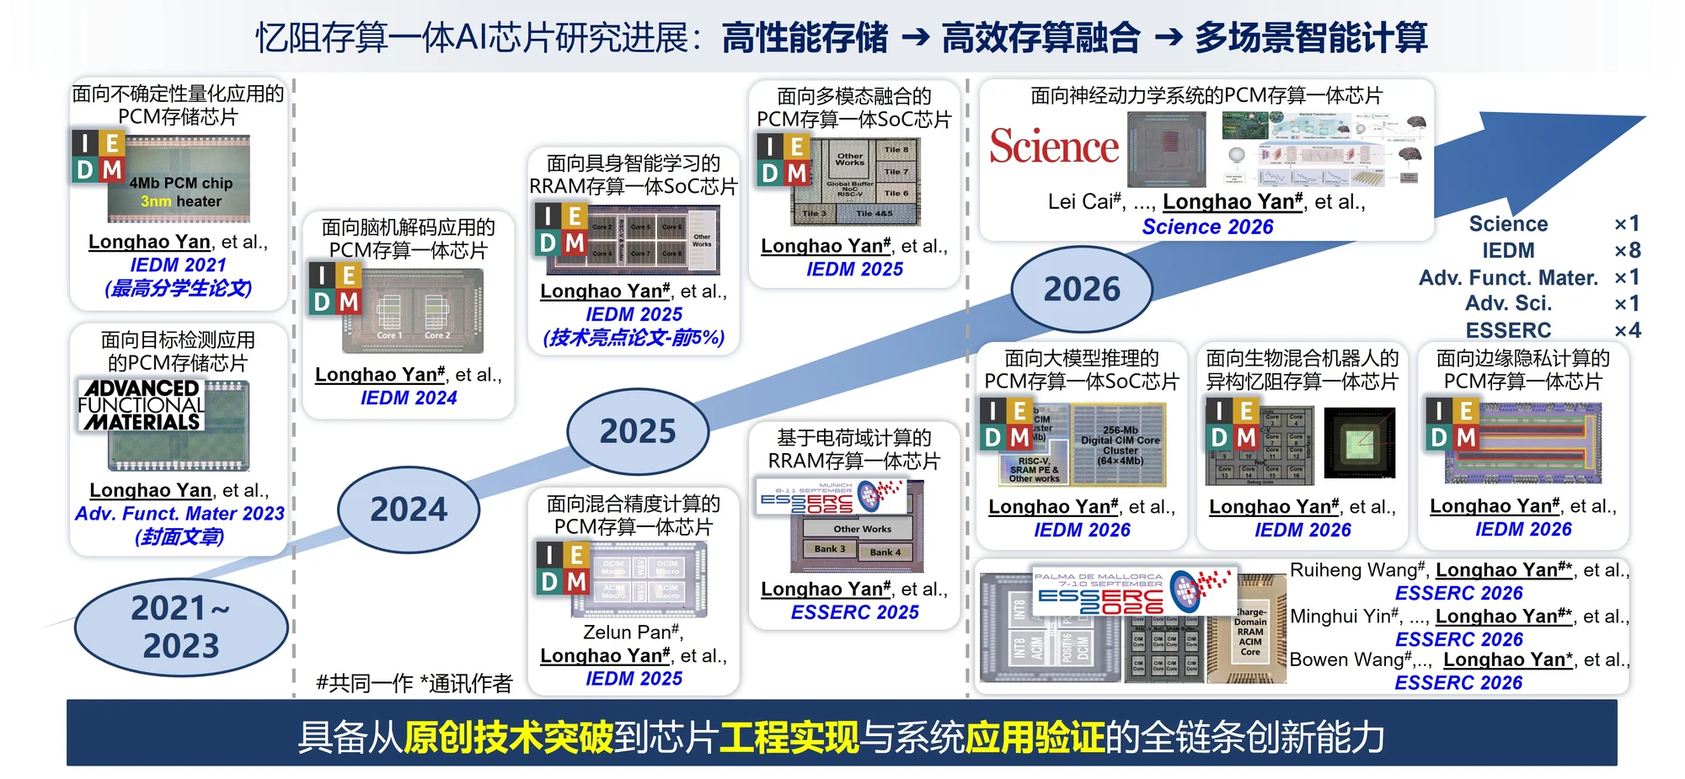
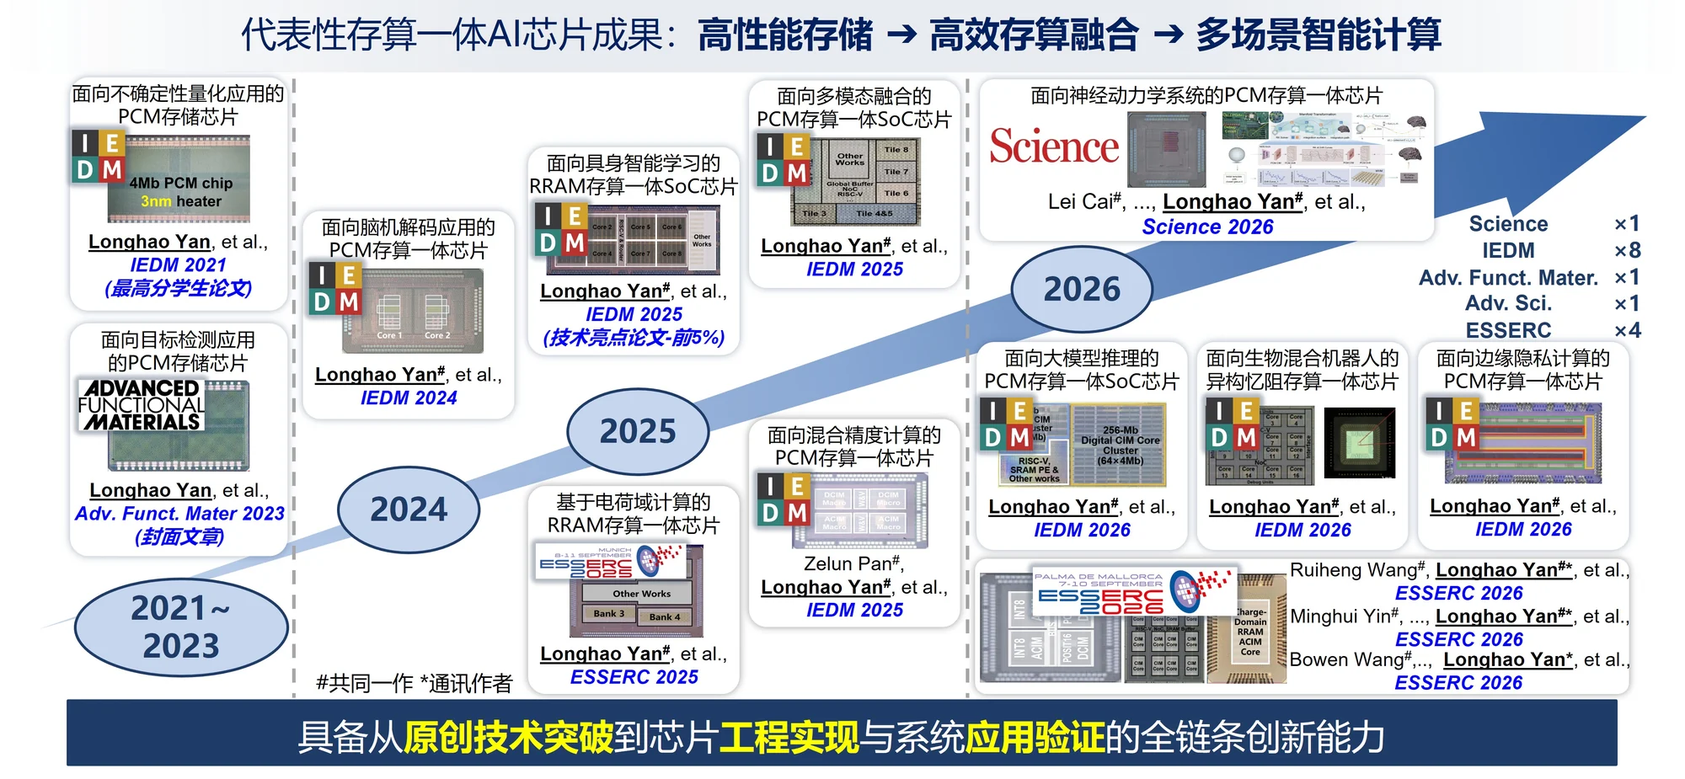
Deploy complete publication authors and updated progress figure

Changed region(s): [[0.31, 0.5146, 0.558, 0.9081], [0.124, 0.0, 0.868, 0.0908]]

diff --git a/index.html b/index.html
@@ -31,7 +31,7 @@
   <link rel="alternate" hreflang="en" href="https://yanlonghao.com/?lang=en">
   <link rel="alternate" hreflang="x-default" href="https://yanlonghao.com/">
   <link rel="icon" href="assets/images/favicon.svg" type="image/svg+xml">
-  <link rel="stylesheet" href="assets/css/styles.css?v=63">
+  <link rel="stylesheet" href="assets/css/styles.css?v=64">
   <title>Longhao Yan | 闫龙皞</title>
   <script type="application/ld+json">
     {
@@ -142,8 +142,8 @@
           </div>
           <figure class="about-progress">
             <picture>
-              <source media="(max-width: 640px)" srcset="assets/images/about/research-progress-1000.webp?v=3">
-              <img data-about-progress-image src="assets/images/about/research-progress.webp?v=3" alt="忆阻存算一体 AI 芯片研究进展" data-i18n-alt="aboutProgressAlt" width="2000" height="925" loading="eager" fetchpriority="high" decoding="async">
+              <source media="(max-width: 640px)" srcset="assets/images/about/research-progress-1000.webp?v=4">
+              <img data-about-progress-image src="assets/images/about/research-progress.webp?v=4" alt="忆阻存算一体 AI 芯片研究进展" data-i18n-alt="aboutProgressAlt" width="2000" height="925" loading="eager" fetchpriority="high" decoding="async">
             </picture>
           </figure>
           <div class="about-more" id="about-more" hidden>
@@ -584,21 +584,21 @@
                   <article>
                     <div class="archive-meta"><span>Science</span><span class="journal-impact" aria-label="Impact Factor 47.3"><small>IF</small><strong>47.3</strong></span><span class="role" data-i18n="roleFirst">第一作者</span></div>
                     <h5><a class="publication-title-link" href="https://doi.org/10.1126/science.aee6277" target="_blank" rel="noopener">A sub-10-millisecond neural dynamical system based on phase-change memristors</a></h5>
-                    <p>Lei Cai#, Yaoyu Tao#*, Chenchen Xie#, <strong>Longhao Yan#</strong>, et al.</p>
+                    <p>Lei Cai#, Yaoyu Tao#*, Chenchen Xie#, <strong>Longhao Yan#</strong>, Shiqian Li, Ruihong Shen, Zelun Pan, Xile Wang, Bowen Wang, Daijing Shi, Yihang Zhu, Teng Zhang, Yixin Zhu, Xi Li, Zhitang Song, Ru Huang, Yuchao Yang</p>
                   </article>
                 </li>
                 <li data-archive-entry data-type="journal" data-role="">
                   <article>
                     <div class="archive-meta"><span>Nature Electronics</span><span class="journal-impact" aria-label="Impact Factor 40.9"><small>IF</small><strong>40.9</strong></span></div>
                     <h5><a class="publication-title-link" href="https://doi.org/10.1038/s41928-025-01534-8" target="_blank" rel="noopener">A first-principles hetero-integrated Fourier transform system based on memristors</a></h5>
-                    <p>Lei Cai#, Yaoyu Tao*#, Teng Zhang#, Chang Liu#, ... <strong>Longhao Yan</strong>, et al.</p>
+                    <p>Lei Cai#, Yaoyu Tao*#, Teng Zhang#, Chang Liu#, Pek Jun Tiw, Lianfeng Yu, Zelun Pan, <strong>Longhao Yan</strong>, Haoyang Luo, Yihang Zhu, Bowen Wang, Bonan Yan, Xiyuan Tang, Ru Huang, Yuchao Yang</p>
                   </article>
                 </li>
                 <li data-archive-entry data-type="journal" data-role="">
                   <article>
                     <div class="archive-meta"><span>Nature Communications</span><span class="journal-impact" aria-label="Impact Factor 15.7"><small>IF</small><strong>15.7</strong></span></div>
                     <h5><a class="publication-title-link" href="https://doi.org/10.1038/s41467-025-68122-4" target="_blank" rel="noopener">High-concurrency tri-mode memristor-based ordinary differential equation solver</a></h5>
-                    <p>Lianfeng Yu, Teng Zhang, Yang Han, ... <strong>Longhao Yan</strong>, et al.</p>
+                    <p>Lianfeng Yu, Teng Zhang, Yang Han, Bowen Wang, Ziang Xie, Haochen Zhang, Jiaxin Liu, <strong>Longhao Yan</strong>, Pek Jun Tiw, Daijing Shi, Lei Cai, Yaoyu Tao, Yuchao Yang</p>
                   </article>
                 </li>
                 <li data-archive-entry data-type="conference" data-role="first">
@@ -626,35 +626,35 @@
                   <article>
                     <div class="archive-meta"><span>IEEE European Solid-State Electronics Research Conference (ESSERC)</span><span class="role" data-i18n="roleFirst">第一作者</span><span class="role" data-i18n="roleCorresponding">通讯作者</span></div>
                     <h5>A Hybrid Analog-Digital RRAM CIM System with 4T2R1C Charge-Domain ACIM and RL-Driven Mixed-Precision Deployment for AI Inference</h5>
-                    <p>Minghui Yin#, Jiukai Fang#, <strong>Longhao Yan#*</strong>, et al. · <span data-i18n="accepted">已接收</span></p>
+                    <p>Minghui Yin#, Jiukai Fang#, <strong>Longhao Yan#*</strong>, Zelun Pan, Bowen Wang, Zhe Zhan, Xile Wang, Yaoyu Tao, Yuchao Yang* · <span data-i18n="accepted">已接收</span></p>
                   </article>
                 </li>
                 <li data-archive-entry data-type="conference" data-role="first corresponding">
                   <article>
                     <div class="archive-meta"><span>IEEE European Solid-State Electronics Research Conference (ESSERC)</span><span class="role" data-i18n="roleFirst">第一作者</span><span class="role" data-i18n="roleCorresponding">通讯作者</span></div>
                     <h5>An 8Mb 16-Core Wear-Resilient RRAM Compute-in-Memory Processor with Overshoot-Optimized MLC Programming and Compute-Aware Wear Leveling for Aerial Embodied Learning</h5>
-                    <p>Ruiheng Wang#, <strong>Longhao Yan#*</strong>, Daijing Shi, et al. · <span data-i18n="accepted">已接收</span></p>
+                    <p>Ruiheng Wang#, <strong>Longhao Yan#*</strong>, Daijing Shi, Zelun Pan, Zhe Zhan, Xinjie Wen, Yaoyu Tao, Yuchao Yang* · <span data-i18n="accepted">已接收</span></p>
                   </article>
                 </li>
                 <li data-archive-entry data-type="conference" data-role="corresponding">
                   <article>
                     <div class="archive-meta"><span>IEEE European Solid-State Electronics Research Conference (ESSERC)</span><span class="role" data-i18n="roleCorresponding">通讯作者</span></div>
                     <h5>A 40nm 3.58 mJ/Frame PCM-Based POSIT/INT Mixed-Precision Digital/Analog CIM Chip for Edge Foveated Rendering</h5>
-                    <p>Bowen Wang#, Zelun Pan#, Zhe Zhan, <strong>Longhao Yan*</strong>, et al. · <span data-i18n="accepted">已接收</span></p>
+                    <p>Bowen Wang#, Zelun Pan#, Zhe Zhan, <strong>Longhao Yan*</strong>, Jiukai Fang, Xile Wang, Yuqi Li, Minghui Yin, Xi Li, Zhitang Song*, Yaoyu Tao*, Yuchao Yang* · <span data-i18n="accepted">已接收</span></p>
                   </article>
                 </li>
                 <li data-archive-entry data-type="journal" data-role="first">
                   <article>
                     <div class="archive-meta"><span>Integrated Circuits and Systems</span><span class="role" data-i18n="roleFirst">第一作者</span></div>
                     <h5><a class="publication-title-link" href="https://doi.org/10.23919/ICS.2026.3676379" target="_blank" rel="noopener">A Scalable Charge-Domain CIM Macro With 2T1R1C Cells and Capacitor Reuse Method</a></h5>
-                    <p>Bowen Wang#, <strong>Longhao Yan#</strong>, Xiyuan Tang*, et al.</p>
+                    <p>Bowen Wang#, <strong>Longhao Yan#</strong>, Xiyuan Tang*, Xile Wang, Yuqi Li, Zeyu Wang, Zelun Pan, Daijing Shi, Zhe Zhan, Yaoyu Tao, Zhitang Song, Yuchao Yang</p>
                   </article>
                 </li>
                 <li data-archive-entry data-type="journal" data-role="">
                   <article>
                     <div class="archive-meta"><span>Advanced Science</span><span class="journal-impact" aria-label="Impact Factor 14.1"><small>IF</small><strong>14.1</strong></span></div>
                     <h5><a class="publication-title-link" href="https://doi.org/10.1002/advs.202521815" target="_blank" rel="noopener">In Situ Quantization with Memory-Transistor Transfer Unit Based on Electrochemical Random-Access Memory for Edge Applications</a></h5>
-                    <p>Zhen Yang, Yuxiang Yang, Baiqian Wang, ... <strong>Longhao Yan</strong>, et al.</p>
+                    <p>Zhen Yang, Yuxiang Yang, Baiqian Wang, Yaoyu Tao, Zelun Pan, Lei Cai, Teng Zhang, <strong>Longhao Yan</strong>, Xianbin Li, Yuchao Yang</p>
                   </article>
                 </li>
               </ul>
@@ -667,56 +667,56 @@
                   <article>
                     <div class="archive-meta"><span>IEEE International Electron Devices Meeting (IEDM)</span><span class="role accent">Technical Highlight</span><span class="role" data-i18n="roleFirst">第一作者</span></div>
                     <h5><a class="publication-title-link" href="https://doi.org/10.1109/IEDM50572.2025.11353856" target="_blank" rel="noopener">An 8Mb Learning-Aware RRAM Compute-in-Memory Accelerator for Embodied Self-Supervised Learning</a></h5>
-                    <p><strong>Longhao Yan#</strong>, Zhe Zhan#, Zelun Pan, et al.</p>
+                    <p><strong>Longhao Yan#</strong>, Zhe Zhan#, Zelun Pan, Bowen Wang, Yaoyu Tao, Yuchao Yang</p>
                   </article>
                 </li>
                 <li data-archive-entry data-type="conference" data-role="first">
                   <article>
                     <div class="archive-meta"><span>IEEE International Electron Devices Meeting (IEDM)</span><span class="role" data-i18n="roleFirst">第一作者</span></div>
                     <h5><a class="publication-title-link" href="https://doi.org/10.1109/IEDM50572.2025.11353552" target="_blank" rel="noopener">Efficient Multimodal Fusion with Intelligent Predictive Programming Based on 64-Core PCM Compute-in-Memory Processor</a></h5>
-                    <p><strong>Longhao Yan#</strong>, Zitong Zheng#, Xi Li, et al.</p>
+                    <p><strong>Longhao Yan#</strong>, Zitong Zheng#, Xi Li, Xile Wang, Zhe Zhan, Jiukai Fang, Minghui Yin, Zelun Pan, Song Jia, Yaoyu Tao, Zhitang Song, Yuchao Yang</p>
                   </article>
                 </li>
                 <li data-archive-entry data-type="conference" data-role="first">
                   <article>
                     <div class="archive-meta"><span>IEEE International Electron Devices Meeting (IEDM)</span><span class="role" data-i18n="roleFirst">第一作者</span></div>
                     <h5><a class="publication-title-link" href="https://doi.org/10.1109/IEDM50572.2025.11353523" target="_blank" rel="noopener">A 40nm Mixed-Precision PCM Chip with Fused Analog/Digital Compute-in-Memory and Adaptive Drift Compensation for Embodied AI Applications</a></h5>
-                    <p>Zelun Pan#, <strong>Longhao Yan#</strong>, Xile Wang, et al.</p>
+                    <p>Zelun Pan#, <strong>Longhao Yan#</strong>, Xile Wang, Bowen Wang, Yueying Luo, Zhe Zhan, Xi Li, Yuqi Li, Lei Cai, Teng Zhang, Minghui Yin, Yaoyu Tao, Zhitang Song, Yuchao Yang</p>
                   </article>
                 </li>
                 <li data-archive-entry data-type="journal" data-role="corresponding">
                   <article>
                     <div class="archive-meta"><span>Advanced Science</span><span class="journal-impact" aria-label="Impact Factor 14.1"><small>IF</small><strong>14.1</strong></span><span class="role" data-i18n="roleCorresponding">通讯作者</span></div>
                     <h5><a class="publication-title-link" href="https://doi.org/10.1002/advs.202505678" target="_blank" rel="noopener">Memristive In-Memory Object Detection with 128 Mb C-doped PCM Chip</a></h5>
-                    <p>Chenchen Xie#, Yuqi Li#, <strong>Longhao Yan*</strong>, et al.</p>
+                    <p>Chenchen Xie#, Yuqi Li#, <strong>Longhao Yan*</strong>, Sannian Song, Houpeng Chen, Ruijuan Qi, Xi Li, Yihang Zhu, Lianfeng Yu, Bonan Yan, Yaoyu Tao, Gaoming Feng, Yuchao Yang, Zhitang Song</p>
                   </article>
                 </li>
                 <li data-archive-entry data-type="conference" data-role="first">
                   <article>
                     <div class="archive-meta"><span>IEEE European Solid-State Electronics Research Conference (ESSERC)</span><span class="role" data-i18n="roleFirst">第一作者</span></div>
                     <h5><a class="publication-title-link" href="https://doi.org/10.1109/ESSERC66193.2025.11214056" target="_blank" rel="noopener">A 1308 TOPS/W Charge-Mode ReRAM CIM Macro with 4T2R2C Differential Cell and FIA-Based Analog Accumulation for AI Inference</a></h5>
-                    <p><strong>Longhao Yan#</strong>, Zelun Pan#, Zhe Zhan, et al.</p>
+                    <p><strong>Longhao Yan#</strong>, Zelun Pan#, Zhe Zhan, Daijing Shi, Yihang Zhu, Yaoyu Tao, Yuchao Yang</p>
                   </article>
                 </li>
                 <li data-archive-entry data-type="conference" data-role="first">
                   <article>
                     <div class="archive-meta"><span>IEEE Electron Devices Technology &amp; Manufacturing Conference (EDTM)</span><span class="role" data-i18n="roleFirst">第一作者</span></div>
                     <h5><a class="publication-title-link" href="https://doi.org/10.1109/EDTM61175.2025.11041605" target="_blank" rel="noopener">An Efficient Pipeline Programming Scheme Based on 40nm PCM Compute-in-Memory Chip for CNNs</a></h5>
-                    <p>Xile Wang#, <strong>Longhao Yan#</strong>, Xi Li, et al.</p>
+                    <p>Xile Wang#, <strong>Longhao Yan#</strong>, Xi Li, Yaoyu Tao, Zhitang Song, Yuchao Yang</p>
                   </article>
                 </li>
                 <li data-archive-entry data-type="conference" data-role="first">
                   <article>
                     <div class="archive-meta"><span>IEEE International Conference on Integrated Circuits, Technologies and Applications (ICTA)</span><span class="role accent">Best Paper Award Finalist</span><span class="role" data-i18n="roleFirst">第一作者</span></div>
                     <h5><a class="publication-title-link" href="https://doi.org/10.1109/ICTA68203.2025.11329816" target="_blank" rel="noopener">A 617.7 TOPS/W PCM-Based Charge-Domain CIM Macro with Capacitor Reuse Method and Scalable Local Compute Unit</a></h5>
-                    <p>Bowen Wang#, <strong>Longhao Yan#</strong>, Xiyuan Tang*, et al.</p>
+                    <p>Bowen Wang#, <strong>Longhao Yan#</strong>, Xiyuan Tang*, Xile Wang, Yuqi Li, Zeyu Wang, Zelun Pan, Daijing Shi, Zhe Zhan, Yaoyu Tao, Zhitang Song, Yuchao Yang</p>
                   </article>
                 </li>
                 <li data-archive-entry data-type="journal" data-role="">
                   <article>
                     <div class="archive-meta"><span>Advanced Intelligent Systems</span><span class="journal-impact" aria-label="Impact Factor 6.1"><small>IF</small><strong>6.1</strong></span></div>
                     <h5><a class="publication-title-link" href="https://doi.org/10.1002/aisy.202401068" target="_blank" rel="noopener">Energy-Efficient Online Training with In Situ Parallel Computing on Electrochemical Memory Arrays</a></h5>
-                    <p>Yingming Lu, Zhen Yang, Yaoyu Tao, ... <strong>Longhao Yan</strong>, et al.</p>
+                    <p>Yingming Lu, Zhen Yang, Yaoyu Tao, Lei Cai, Teng Zhang, <strong>Longhao Yan</strong>, Ru Huang, Yuchao Yang</p>
                   </article>
                 </li>
               </ul>
@@ -729,28 +729,28 @@
                   <article>
                     <div class="archive-meta"><span>IEEE International Electron Devices Meeting (IEDM)</span><span class="role" data-i18n="roleFirst">第一作者</span></div>
                     <h5><a class="publication-title-link" href="https://doi.org/10.1109/IEDM50854.2024.10873590" target="_blank" rel="noopener">Neural Manifold Learning Based on 40 nm Dual-Mode PCM Compute-in-Memory Chip with Hardware Adaptive Drift Compensation</a></h5>
-                    <p><strong>Longhao Yan#</strong>, Yuqi Li#, Xi Li, et al.</p>
+                    <p><strong>Longhao Yan#</strong>, Yuqi Li#, Xi Li, Zelun Pan, Zeyu Wang, Xile Wang, Bowen Wang, Zhe Zhan, Xiyuan Tang, Yaoyu Tao, Woo-Ping Ge, Zhitang Song, Ru Huang, Yuchao Yang</p>
                   </article>
                 </li>
                 <li data-archive-entry data-type="conference" data-role="">
                   <article>
                     <div class="archive-meta"><span>IEEE/ACM International Symposium on Microarchitecture (MICRO)</span></div>
                     <h5><a class="publication-title-link" href="https://doi.org/10.1109/MICRO61859.2024.00122" target="_blank" rel="noopener">MeMCISA: Memristor-Enabled Memory-Centric Instruction-Set Architecture for Database Workloads</a></h5>
-                    <p>Yihang Zhu, Lei Cai, Lianfeng Yu, ... <strong>Longhao Yan</strong>, et al.</p>
+                    <p>Yihang Zhu, Lei Cai, Lianfeng Yu, Anjunyi Fan, <strong>Longhao Yan</strong>, Zhaokun Jing, Bonan Yan, Pek Jun Tiw, Yuqi Li, Yaoyu Tao, Yuchao Yang</p>
                   </article>
                 </li>
                 <li data-archive-entry data-type="journal" data-role="">
                   <article>
                     <div class="archive-meta"><span>Advanced Functional Materials</span><span class="journal-impact" aria-label="Impact Factor 19.9"><small>IF</small><strong>19.9</strong></span></div>
                     <h5><a class="publication-title-link" href="https://doi.org/10.1002/adfm.202405618" target="_blank" rel="noopener">Fully Hardware Memristive Neuromorphic Computing Enabled by the Integration of Trainable Dendritic Neurons and High-Density RRAM Chip</a></h5>
-                    <p>Zhen Yang, Wenshuo Yue, Chang Liu, ... <strong>Longhao Yan</strong>, et al.</p>
+                    <p>Zhen Yang, Wenshuo Yue, Chang Liu, Yaoyu Tao, Pek Jun Tiw, <strong>Longhao Yan</strong>, Yuxiang Yang, Teng Zhang, Bingjie Dang, Keqin Liu, Xiaodong He, Yongqin Wu, Weihai Bu, Kai Zheng, Jin Kang, Ru Huang, Yuchao Yang</p>
                   </article>
                 </li>
                 <li data-archive-entry data-type="conference" data-role="first">
                   <article>
                     <div class="archive-meta"><span>IEEE Electron Devices Technology &amp; Manufacturing Conference (EDTM)</span><span class="role" data-i18n="roleFirst">第一作者</span></div>
                     <h5><a class="publication-title-link" href="https://doi.org/10.1109/EDTM58488.2024.10512132" target="_blank" rel="noopener">On-Chip Write &amp; Verify and Endurance Enhancer Circuits towards Multi-level RRAM Array</a></h5>
-                    <p>Quan Zhang#, <strong>Longhao Yan#</strong>, Yaoyu Tao, et al.</p>
+                    <p>Quan Zhang#, <strong>Longhao Yan#</strong>, Yaoyu Tao, Ru Huang, Yuchao Yang</p>
                   </article>
                 </li>
               </ul>
@@ -763,7 +763,7 @@
                   <article>
                     <div class="archive-meta"><span>Advanced Functional Materials</span><span class="journal-impact" aria-label="Impact Factor 19.9"><small>IF</small><strong>19.9</strong></span><span class="role accent" data-i18n="coverArticle">封面文章</span><span class="role" data-i18n="roleFirst">第一作者</span></div>
                     <h5><a class="publication-title-link" href="https://doi.org/10.1002/adfm.202300458" target="_blank" rel="noopener">Neural Architecture Search with In-Memory Multiply-Accumulate and In-Memory Rank Based on Coating Layer Optimized C-doped Phase Change Memory</a></h5>
-                    <p><strong>Longhao Yan</strong>, Qingyu Wu, Xi Li, et al.</p>
+                    <p><strong>Longhao Yan</strong>, Qingyu Wu, Xi Li, Chenchen Xie, Xilin Zhou, Yuqi Li, Daijing Shi, Lianfeng Yu, Teng Zhang, Yaoyu Tao, Bonan Yan, Min Zhong, Zhitang Song, Yuchao Yang, Ru Huang</p>
                   </article>
                 </li>
               </ul>
@@ -776,14 +776,14 @@
                   <article>
                     <div class="archive-meta"><span>Advanced Materials</span><span class="journal-impact" aria-label="Impact Factor 26.8"><small>IF</small><strong>26.8</strong></span></div>
                     <h5><a class="publication-title-link" href="https://doi.org/10.1002/adma.202107811" target="_blank" rel="noopener">In-Memory Realization of Eligibility Traces Based on Conductance Drift of Phase Change Memory for Energy-Efficient Reinforcement Learning</a></h5>
-                    <p>Yingming Lu, Xi Li, Bonan Yan, <strong>Longhao Yan</strong>, et al.</p>
+                    <p>Yingming Lu, Xi Li, Bonan Yan, <strong>Longhao Yan</strong>, Teng Zhang, Zhitang Song, Ru Huang, Yuchao Yang</p>
                   </article>
                 </li>
                 <li data-archive-entry data-type="conference" data-role="first">
                   <article>
                     <div class="archive-meta"><span>IEEE Electron Devices Technology &amp; Manufacturing Conference (EDTM)</span><span class="role" data-i18n="roleFirst">第一作者</span></div>
                     <h5><a class="publication-title-link" href="https://doi.org/10.1109/EDTM53872.2022.9797926" target="_blank" rel="noopener">Graph Neural Network Based on RRAM Array</a></h5>
-                    <p><strong>Longhao Yan</strong>, Yihang Zhu, Zhaokun Jing, et al.</p>
+                    <p><strong>Longhao Yan</strong>, Yihang Zhu, Zhaokun Jing, Qingxi Duan, Ru Huang, Yuchao Yang</p>
                   </article>
                 </li>
               </ul>
@@ -796,14 +796,14 @@
                   <article>
                     <div class="archive-meta"><span>IEEE International Electron Devices Meeting (IEDM)</span><span class="role accent">Top Ranked Student Paper</span><span class="role" data-i18n="roleFirst">第一作者</span></div>
                     <h5><a class="publication-title-link" href="https://doi.org/10.1109/IEDM19574.2021.9720555" target="_blank" rel="noopener">Uncertainty Quantification Based on Multilevel Conductance and Stochasticity of Heater Size Dependent C-doped PCM Chip</a></h5>
-                    <p><strong>Longhao Yan</strong>, Xi Li, Yihang Zhu, et al.</p>
+                    <p><strong>Longhao Yan</strong>, Xi Li, Yihang Zhu, Bonan Yan, Yingming Lu, Teng Zhang, Yuchao Yang, Zhitang Song, Ru Huang</p>
                   </article>
                 </li>
                 <li data-archive-entry data-type="journal" data-role="">
                   <article>
                     <div class="archive-meta"><span>Science China Information Sciences</span><span class="journal-impact" aria-label="Impact Factor 7.6"><small>IF</small><strong>7.6</strong></span></div>
                     <h5><a class="publication-title-link" href="https://doi.org/10.1007/s11432-020-3245-7" target="_blank" rel="noopener">NAS4RRAM: Neural Network Architecture Search for Inference on RRAM-Based Accelerators</a></h5>
-                    <p>Zhihang Yuan, Jingze Liu, Xingchen Li, <strong>Longhao Yan</strong>, et al.</p>
+                    <p>Zhihang Yuan, Jingze Liu, Xingchen Li, <strong>Longhao Yan</strong>, Haoxiang Chen, Bingzhe Wu, Yuchao Yang, Guangyu Sun</p>
                   </article>
                 </li>
               </ul>
@@ -816,14 +816,14 @@
                   <article>
                     <div class="archive-meta"><span>IEEE International Electron Devices Meeting (IEDM)</span></div>
                     <h5><a class="publication-title-link" href="https://doi.org/10.1109/IEDM13553.2020.9371910" target="_blank" rel="noopener">Accelerated Local Training of CNNs by Optimized Direct Feedback Alignment Based on Stochasticity of 4 Mb C-doped PCM Chip in 40 nm Node</a></h5>
-                    <p>Yingming Lu, Xi Li, <strong>Longhao Yan</strong>, et al.</p>
+                    <p>Yingming Lu, Xi Li, <strong>Longhao Yan</strong>, Teng Zhang, Yuchao Yang, Zhitang Song, Ru Huang</p>
                   </article>
                 </li>
                 <li data-archive-entry data-type="journal" data-role="">
                   <article>
                     <div class="archive-meta"><span>IEEE Electron Device Letters</span><span class="journal-impact" aria-label="Impact Factor 4.5"><small>IF</small><strong>4.5</strong></span></div>
                     <h5><a class="publication-title-link" href="https://doi.org/10.1109/LED.2020.3025791" target="_blank" rel="noopener">Physically Transient Optic-Neural Synapse for Secure In-Sensor Computing</a></h5>
-                    <p>Bingjie Dang, Lan Ma, <strong>Longhao Yan</strong>, et al.</p>
+                    <p>Bingjie Dang, Lan Ma, <strong>Longhao Yan</strong>, Saisai Wang, Keqin Liu, Liying Xu, Caidie Cheng, Momo Zhao, Yuchao Yang, Hong Wang, Yue Hao, Ru Huang</p>
                   </article>
                 </li>
               </ul>

diff --git a/assets/css/styles.css b/assets/css/styles.css
@@ -267,7 +267,7 @@ h2 { margin: 0; color: var(--navy-900); font-size: clamp(2rem, 4vw, 3.5rem); lin
 
 .about-more[hidden] { display: none; }
 
-.about-progress { margin: 26px 0 0; overflow: hidden; background: var(--white) url("../images/about/research-progress-preview.webp?v=1") center / cover no-repeat; border: 1px solid #b8c9d8; border-radius: 16px; box-shadow: 0 12px 28px rgba(6, 21, 42, 0.08); }
+.about-progress { margin: 26px 0 0; overflow: hidden; background: var(--white) url("../images/about/research-progress-preview.webp?v=2") center / cover no-repeat; border: 1px solid #b8c9d8; border-radius: 16px; box-shadow: 0 12px 28px rgba(6, 21, 42, 0.08); }
 
 .about-progress img { display: block; width: 100%; height: auto; }
 
